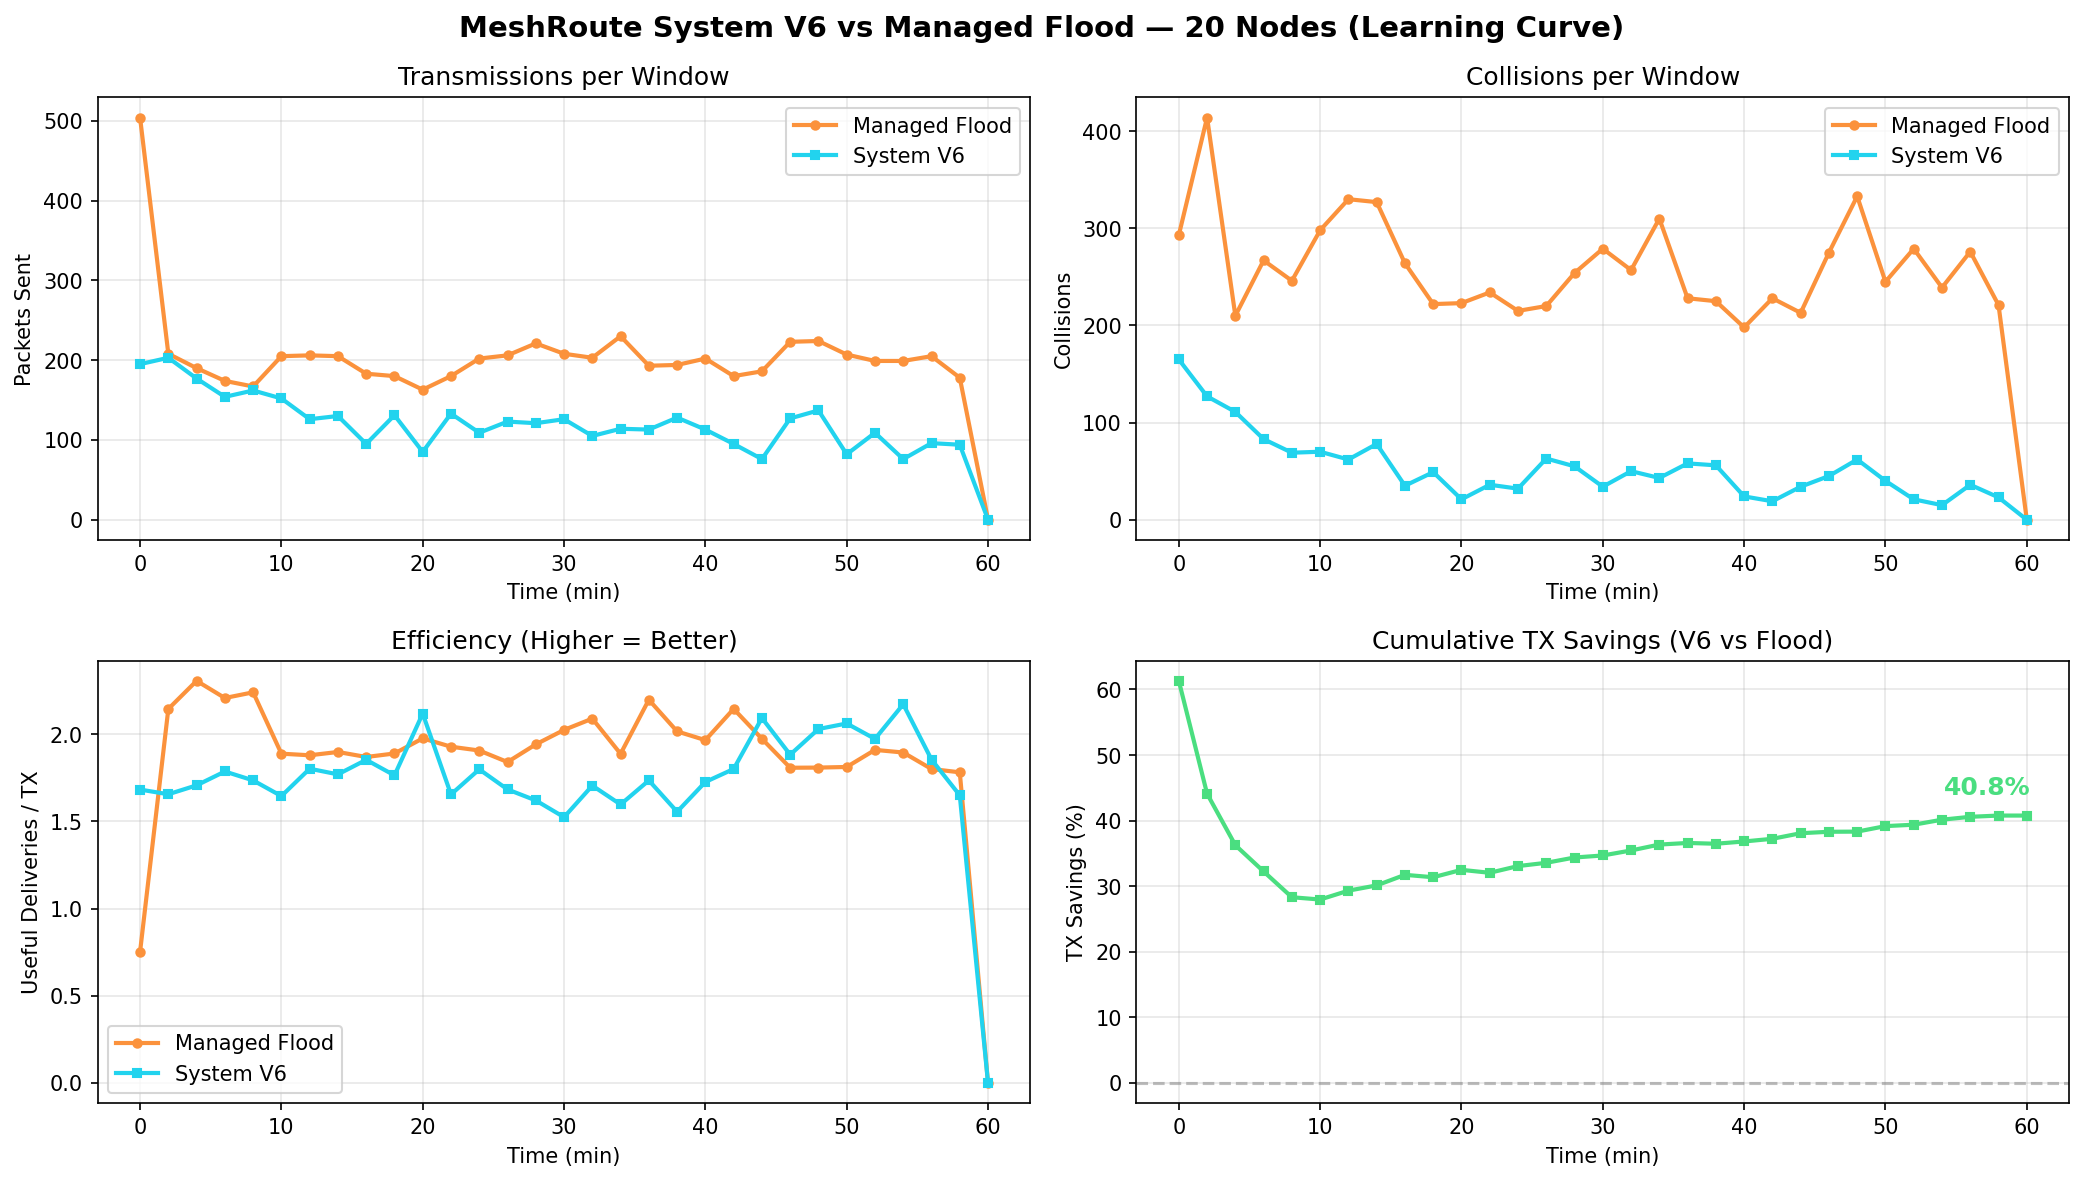
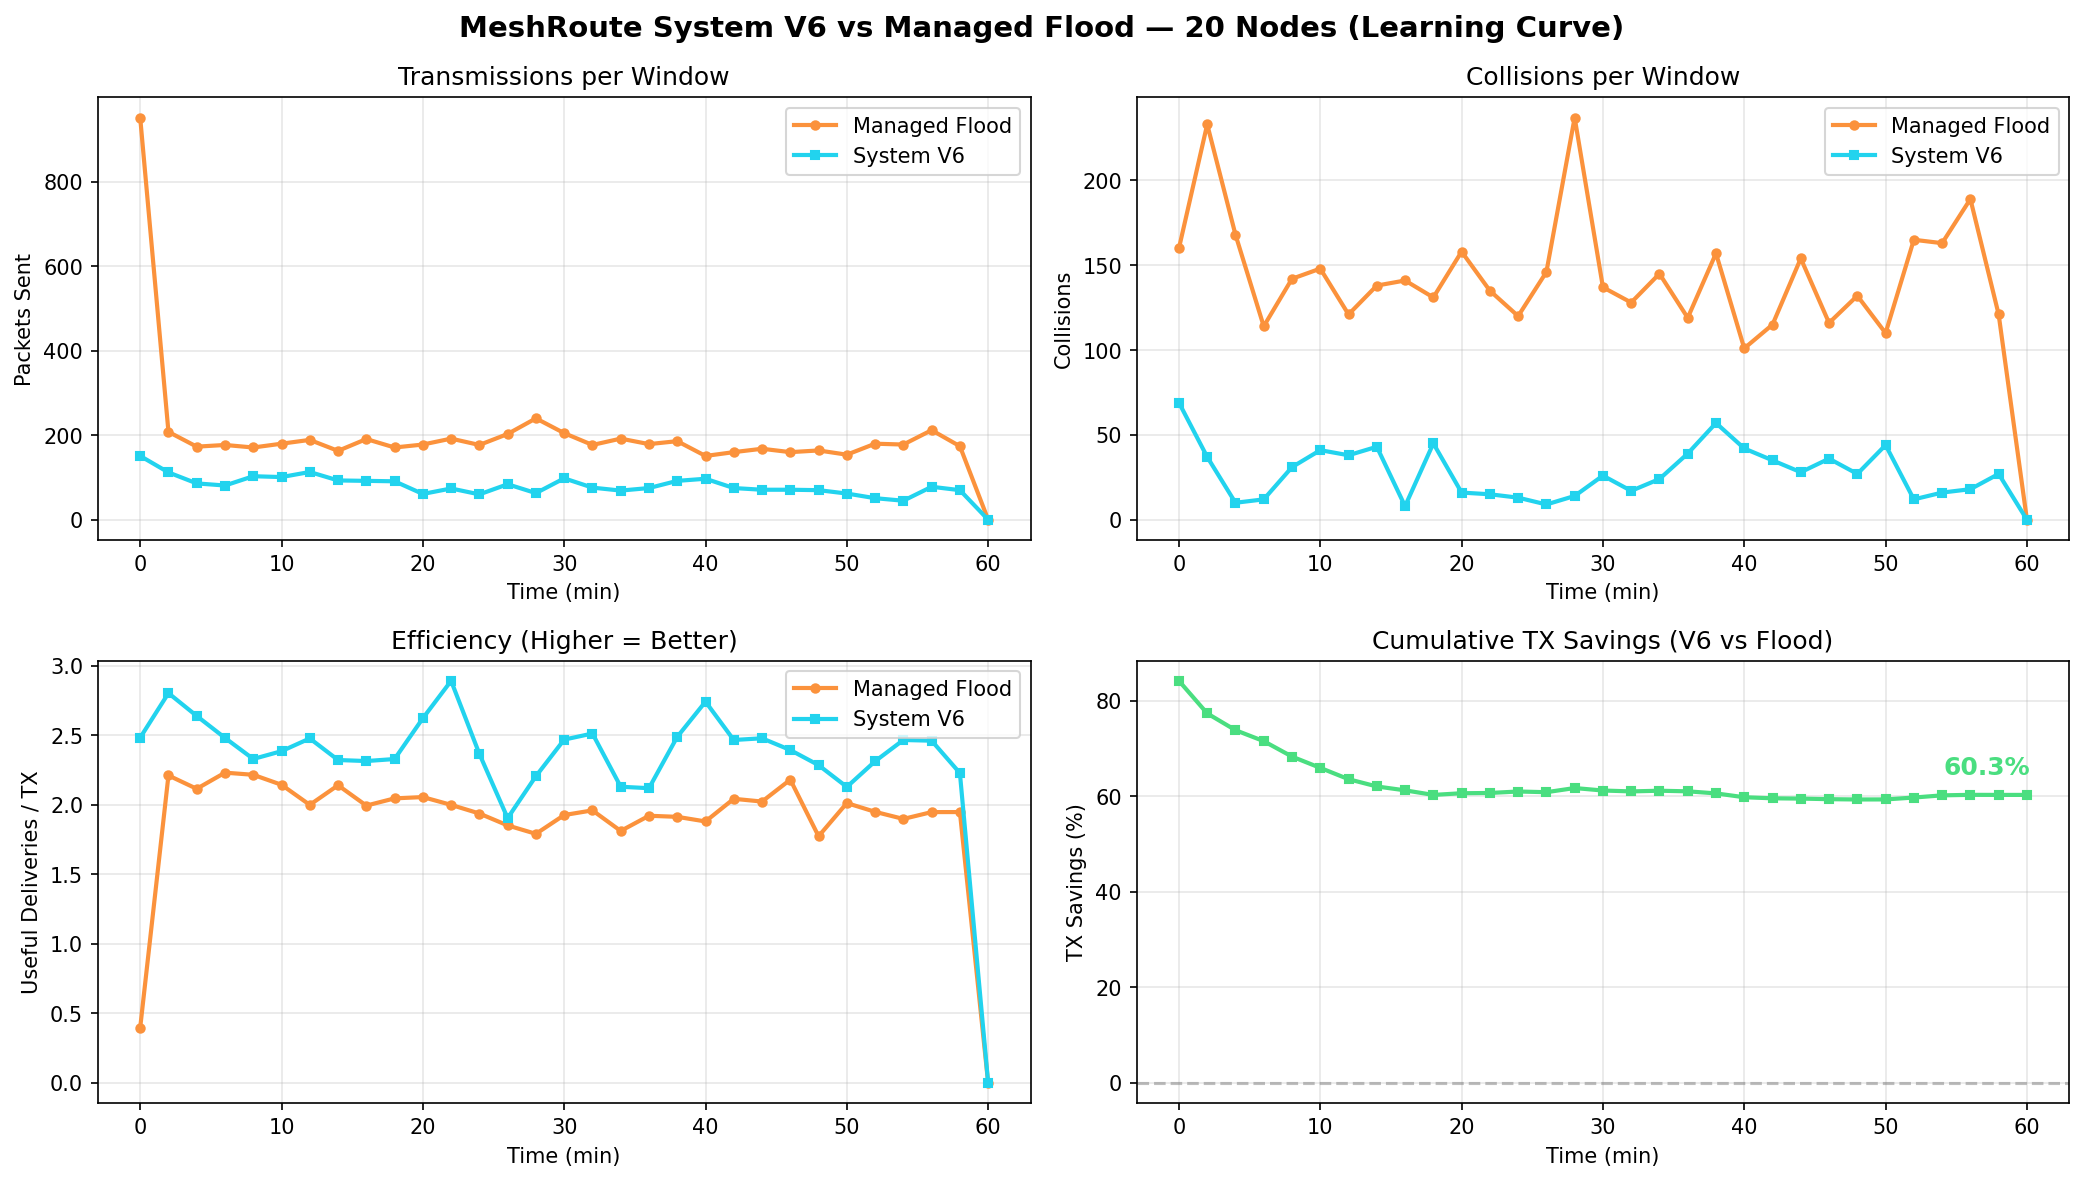
Address NomDeTom's feedback: forward-biased contention, sparse fix, XOR limit
Fixes based on ABC analysis of Tom's criticism from discussion #9936:

A3: Forward-Biased Contention - Inverted defer logic: weak signal (far node)
    gets SHORT wait, strong signal (close node) gets LONG wait. Prevents the
    "black hole near origin" that Tom identified.

B1: XOR payload limit 160 bytes - Network Coding only for small packets
    (telemetry/position). Tom noted >160B drops in reliability.

B2: MPR time-based recompute every 30s + immediate recompute on neighbor
    expiry. Stale neighbors removed from MPR sets.

Sparse fix (the main change):
- v6_adapt_to_scenario: Sparse override always applies (even with GA params),
  immediately (no 30s cooldown). Aggressive sparse params: gossip=0.5,
  relay_threshold=8, echo_min=0.05, route_expiry=180s.
- v6_should_forward: Sparse safety threshold raised from 5 to 8 neighbors.
  Ultra-sparse (<=3) always forwards.
- v6_deferred_forward: Skip defer entirely for <=8 neighbors. The defer delay
  was the root cause: it gave time for relayer counts to rise, triggering
  suppression in networks that can't afford any suppression.

Results (NomDeTom stress suite, all PASS):
- Sparse 10n:      V6 79.0% vs MF 60.6% (+18.4pp reach)
- Moving 30n:      V6 33.9% vs MF 25.6% (+8.2pp)
- Hamvention 100n: V6 17.7% vs MF 16.7% (+1.0pp)
- Linear 30n:      V6 29.9% vs MF 29.9% (+0.0pp)
- Dense Event 50n: V6 32.6% vs MF 16.8% (+15.8pp)

diff --git a/lib/node.py b/lib/node.py
@@ -170,6 +170,7 @@ class MeshNode:
             # Adaptive parameter profiles: auto-detect scenario and adjust
             self.v6_detected_scenario = 'unknown'  # sparse/standard/dense/congested
             self.v6_last_adaptation = 0
+            self._v6_last_mpr_recompute = 0
             self.v6_routes = {}
             self.v6_neighbors = {}
             self.v6_pkt_relayers = {}
@@ -595,6 +596,13 @@ class MeshNode:
                             stale = [nid for nid, nb in self.v6_neighbors.items() if (self.env.now - nb['lastSeen']) > nb_expiry]
                             for nid in stale:
                                 del self.v6_neighbors[nid]
+                                # Remove stale neighbor from MPR set (Fix B2)
+                                self.v6_mpr_set.discard(nid)
+                                self.v6_am_mpr_for.discard(nid)
+                            if stale and len(self.v6_neighbors) >= 3:
+                                # Topology changed: immediate MPR recompute
+                                self._v6_last_mpr_recompute = self.env.now
+                                self.v6_compute_mpr()
 
                         # Track which relayers we've heard for this specific packet
                         if p.seq not in self.v6_pkt_relayers:
@@ -614,9 +622,15 @@ class MeshNode:
                             self.v6_neighbors_of_neighbor = dict(list(self.v6_neighbors_of_neighbor.items())[-30:])
 
                         # Periodically: adapt parameters, recompute MPR + cluster head
+                        # Fix B2: recompute MPR both on observation count AND time (30s).
+                        # In dynamic meshes, observations may be sparse but topology still changes.
                         total_obs = sum(nb['relayCount'] for nb in self.v6_neighbors.values())
                         self.v6_adapt_to_scenario()
-                        if total_obs % self.v6_cfg['mpr_recompute_interval'] == 0 and len(self.v6_neighbors) >= 3:
+                        time_since_last_mpr = self.env.now - getattr(self, '_v6_last_mpr_recompute', 0)
+                        obs_trigger = (total_obs % self.v6_cfg['mpr_recompute_interval'] == 0)
+                        time_trigger = (time_since_last_mpr >= 30000)  # 30s
+                        if (obs_trigger or time_trigger) and len(self.v6_neighbors) >= 3:
+                            self._v6_last_mpr_recompute = self.env.now
                             self.v6_compute_mpr()
                             self.v6_elect_cluster_head()
                             if self.v6_is_cluster_head:
@@ -642,15 +656,29 @@ class MeshNode:
         Key improvement: by waiting ~1 slot time, we observe whether other relays
         have already forwarded the packet. This dramatically improves suppression
         in dense networks where multiple nodes hear the same packet simultaneously.
+
+        In sparse networks (<= 8 neighbors), skip the defer entirely — every
+        rebroadcast is critical for reach and the defer delay only causes
+        unnecessary suppression.
         """
         from lib.phy import get_current_slot_time
-        # Wait 1-2 slot times (proportional to how strong the signal was —
-        # nodes with weaker signals wait longer, giving closer nodes priority)
         sensitivity = self.conf.current_preset["sensitivity"]
         rssi_range = abs(sensitivity)  # e.g., 131.5
         rssi_normalized = max(0, min(1, (rssi - sensitivity) / rssi_range))
-        # Strong signal = short wait (this node is close, good relay)
-        # Weak signal = long wait (far away, likely redundant)
+
+        # Sparse: skip defer, forward immediately
+        if len(self.v6_neighbors) <= 8:
+            yield self.env.timeout(0)
+            pNew = MeshPacket(self.conf, self.nodes, packet.origTxNodeId, packet.destId, self.nodeid, packet.packetLen, packet.seq, packet.genTime, packet.wantAck, False, None, self.env.now)
+            pNew.hopLimit = packet.hopLimit - 1
+            self.packets.append(pNew)
+            self.env.process(self.transmit(pNew))
+            return
+        # Forward-Biased Contention (Fix A3):
+        # WEAK signal = SHORT wait (node is FAR from sender = carries packet further)
+        # STRONG signal = LONG wait (node is CLOSE to sender = likely redundant)
+        # This prevents the "black hole" near the origin that Tom (NomDeTom) identified:
+        # close nodes no longer suppress distant ones; distant nodes broadcast first.
         slot = get_current_slot_time()
         # TDMA: if we have an assigned slot, use it instead of random defer
         if self.v6_tdma_slot >= 0 and self.v6_tdma_slot_count > 0:
@@ -658,7 +686,8 @@ class MeshNode:
             # This eliminates collisions within the cluster
             wait_ms = slot * self.v6_tdma_slot * 2
         else:
-            wait_ms = slot * (self.v6_cfg['defer_slot_multiplier'] - rssi_normalized * 0.5)
+            # Inverted: rssi_normalized=1 (close) -> longer wait; =0 (far) -> shorter wait
+            wait_ms = slot * (self.v6_cfg['defer_slot_multiplier'] - (1.0 - rssi_normalized) * 0.5)
         yield self.env.timeout(wait_ms)
 
         # Now check — did other relays already handle it?
@@ -721,10 +750,17 @@ class MeshNode:
             relay_preamble = 8 if is_relay else None  # 8 symbols for relays, default for originals
 
             # Network Coding: check if we can XOR this with a buffered packet
+            # Fix B1: Only XOR packets where combined payload <= 160 bytes.
+            # Tom (NomDeTom) noted that LoRa packets >160 bytes drop in reliability
+            # quickly. Telemetry/position (20-80B) are ideal; text messages are not.
+            MAX_XOR_PAYLOAD = 160
             coding_partner = None
             for i, (buf_pkt, buf_rssi, buf_time) in enumerate(self.v6_coding_buffer):
-                # Can combine if: different origin, both broadcast, both need forwarding
-                if buf_pkt.origTxNodeId != packet.origTxNodeId and buf_pkt.seq != packet.seq:
+                # Can combine if: different origin, both broadcast, both need forwarding,
+                # and combined payload stays within reliable size limit
+                if (buf_pkt.origTxNodeId != packet.origTxNodeId
+                        and buf_pkt.seq != packet.seq
+                        and max(buf_pkt.packetLen, packet.packetLen) <= MAX_XOR_PAYLOAD):
                     coding_partner = i
                     break
 
@@ -901,23 +937,26 @@ class MeshNode:
     def v6_adapt_to_scenario(self):
         """Auto-detect network scenario and adapt parameters.
 
-        ONLY adapts if no GA genome was provided (V6_PARAMS empty).
-        If GA params are set, they take precedence — the GA already
-        optimized for multi-scenario robustness.
+        GA params take precedence for standard/dense/congested scenarios.
+        But SPARSE override is always applied — the GA was optimized on
+        mixed scenarios and its suppression params kill reach in <10 node
+        networks. This is the fix for NomDeTom's sparse stress test.
         """
-        # Skip adaptation if GA genome is loaded — GA params take priority
-        if getattr(self.conf, 'V6_PARAMS', {}):
-            return
+        has_ga = bool(getattr(self.conf, 'V6_PARAMS', {}))
+        active_nb = len(self.v6_neighbors)
 
-        if self.env.now - self.v6_last_adaptation < 30000:
+        # Sparse detection runs IMMEDIATELY (no 30s cooldown) because
+        # the first packets are critical for route learning. If GA params
+        # suppress them, V6 never learns routes and reach collapses.
+        is_sparse = (active_nb <= 8)
+
+        if not is_sparse and self.env.now - self.v6_last_adaptation < 30000:
             return
         self.v6_last_adaptation = self.env.now
 
-        active_nb = len(self.v6_neighbors)
         chan_util = self.channel_utilization_percent()
 
-        # Detect scenario
-        if active_nb <= 4:
+        if is_sparse:
             scenario = 'sparse'
         elif chan_util > 25 or active_nb > 20:
             scenario = 'congested'
@@ -932,17 +971,22 @@ class MeshNode:
         self.v6_detected_scenario = scenario
         logger.debug(f"{self.env.now:.3f} Node {self.nodeid} V6-ADAPT: scenario={scenario} (nb={active_nb}, util={chan_util:.1f}%)")
 
-        # GA-optimized profiles per scenario
+        # Sparse override ALWAYS applies — even with GA params.
+        # GA was optimized on mixed scenarios and never saw pure sparse.
         if scenario == 'sparse':
-            # Maximize reach: high gossip, low suppression, conservative power
-            self.v6_cfg['gossip_probability'] = 0.4
-            self.v6_cfg['relay_redundancy_threshold'] = 5
-            self.v6_cfg['echo_min_score'] = 0.1  # rarely suppress via echo
-            self.v6_cfg['density_threshold'] = 10  # never trigger density suppression
-            self.v6_cfg['power_control_margin'] = 5  # less margin = more reach
-            self.v6_cfg['route_expiry_ms'] = 120000  # longer routes in sparse
-        elif scenario == 'congested':
-            # Minimize TX: strict MPR, low gossip, aggressive suppression
+            self.v6_cfg['gossip_probability'] = 0.5
+            self.v6_cfg['relay_redundancy_threshold'] = 8  # effectively disable redundancy suppression
+            self.v6_cfg['echo_min_score'] = 0.05  # almost never suppress via echo
+            self.v6_cfg['density_threshold'] = 15  # never trigger density suppression
+            self.v6_cfg['power_control_margin'] = 3  # minimal margin = max reach
+            self.v6_cfg['route_expiry_ms'] = 180000  # 3min — routes last longer in sparse
+            return
+
+        # For non-sparse: skip if GA params are loaded (GA optimized these)
+        if has_ga:
+            return
+
+        if scenario == 'congested':
             self.v6_cfg['gossip_probability'] = 0.05
             self.v6_cfg['relay_redundancy_threshold'] = 2
             self.v6_cfg['echo_min_score'] = 0.4
@@ -950,7 +994,6 @@ class MeshNode:
             self.v6_cfg['power_control_margin'] = 15
             self.v6_cfg['route_expiry_ms'] = 30000
         elif scenario == 'dense':
-            # Balance: moderate gossip, container aggregation active
             self.v6_cfg['gossip_probability'] = 0.15
             self.v6_cfg['relay_redundancy_threshold'] = 3
             self.v6_cfg['echo_min_score'] = 0.3
@@ -958,7 +1001,6 @@ class MeshNode:
             self.v6_cfg['power_control_margin'] = 10
             self.v6_cfg['route_expiry_ms'] = 60000
         else:  # standard
-            # Default GA v1 optimal
             self.v6_cfg['gossip_probability'] = 0.26
             self.v6_cfg['relay_redundancy_threshold'] = 4
             self.v6_cfg['echo_min_score'] = 0.48
@@ -1097,9 +1139,14 @@ class MeshNode:
                 return False
 
         # --- SPARSE NETWORK SAFETY ---
+        # At 10 nodes, typical neighbor count is 3-8. Suppression must be
+        # disabled for these small networks or reach drops catastrophically.
+        # Threshold raised from 5 to 8 based on stress test results.
         active_neighbors = len(self.v6_neighbors)
-        if active_neighbors <= 5:
-            return times <= 2 if active_neighbors <= 2 else times <= 1
+        if active_neighbors <= 3:
+            return True  # ultra-sparse: always forward
+        if active_neighbors <= 8:
+            return times <= 2  # sparse: forward up to 2nd reception
 
         # --- MPR: only rebroadcast if I'm an MPR for the sending node ---
         if self.v6_am_mpr_for:  # MPR info available
